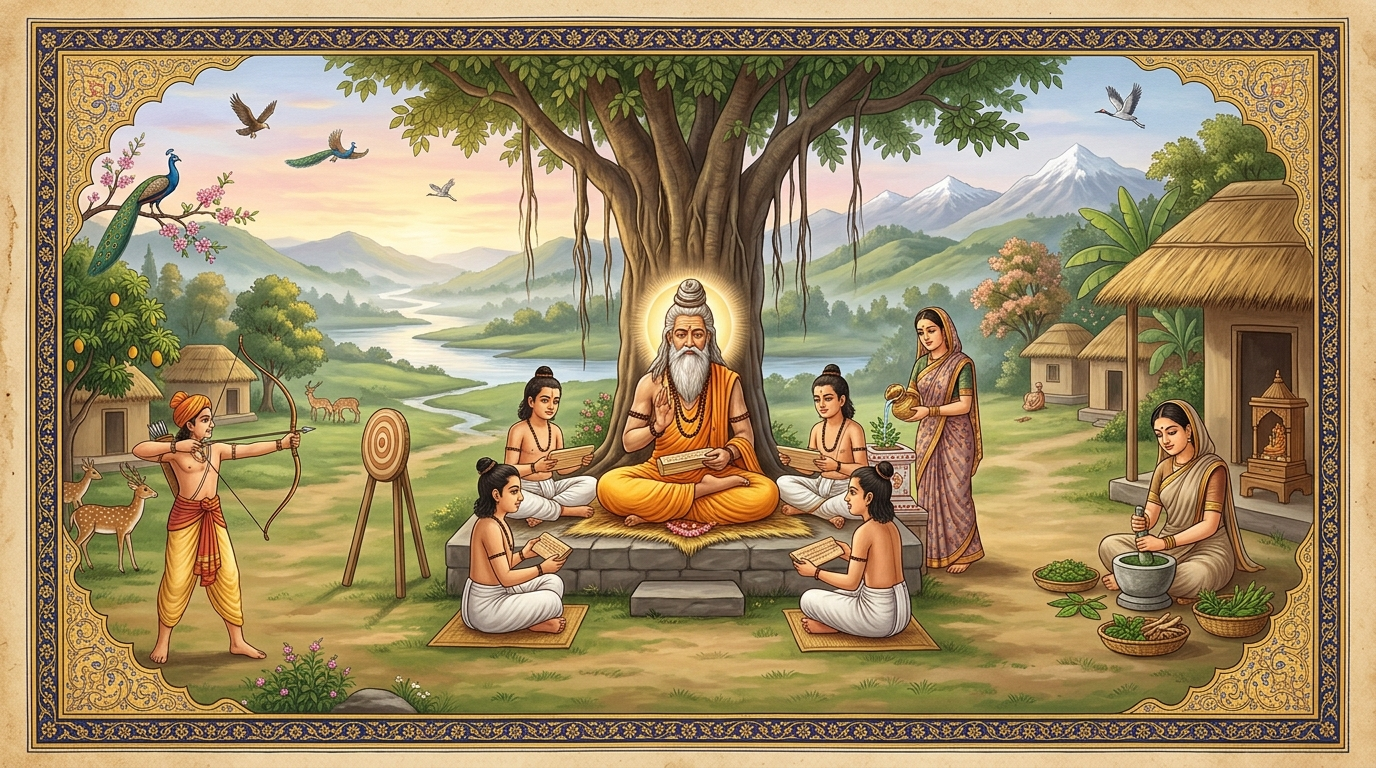
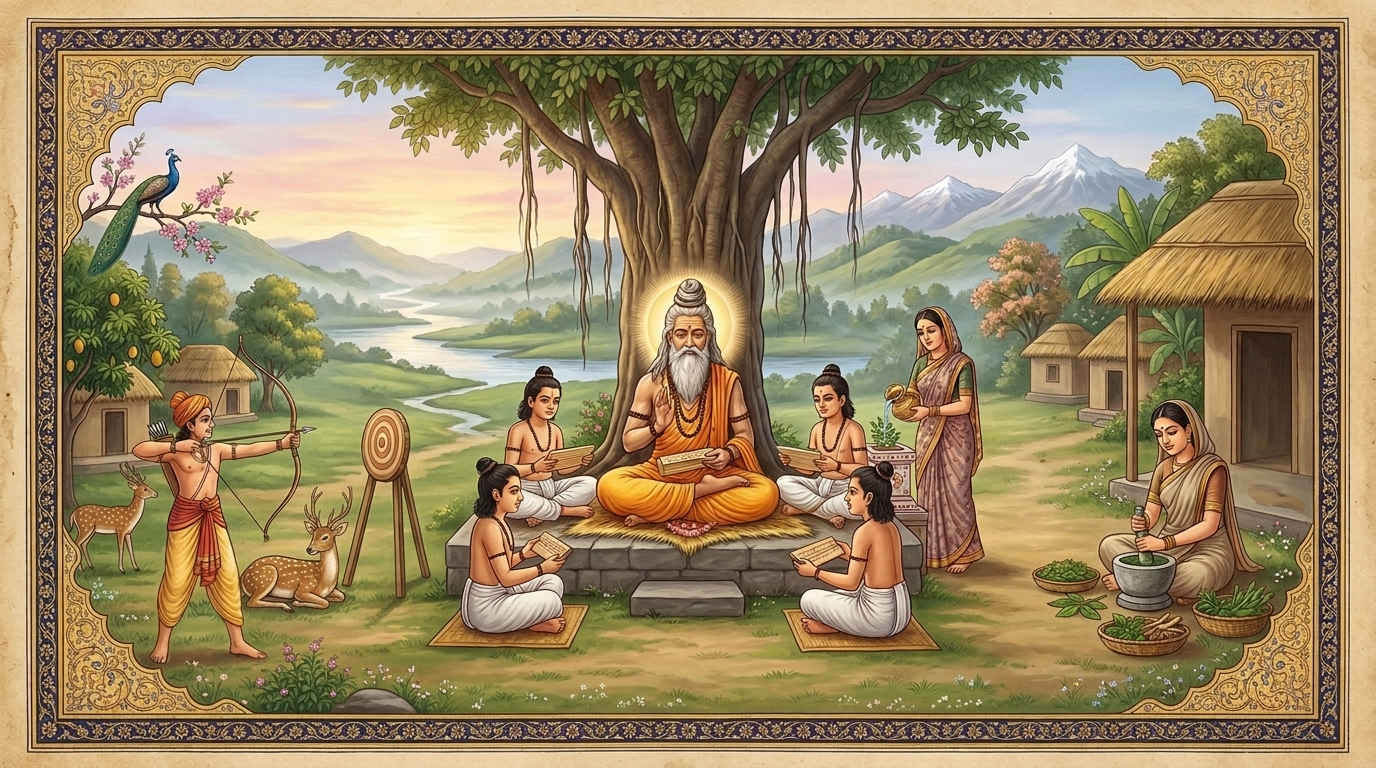
fix(science-lab & gurukul): eliminate duplicate level chips in science lab hero and enable on-demand replay and zen view for refined Gurukul dawn animation

diff --git a/src/components/GurukulEntranceIntro.tsx b/src/components/GurukulEntranceIntro.tsx
@@ -21,6 +21,7 @@ export const GurukulEntranceIntro: React.FC<GurukulEntranceIntroProps> = ({
   const [isSuspended, setIsSuspended] = useState(false);
   const [hasInteracted, setHasInteracted] = useState(false);
   const [secondsLeft, setSecondsLeft] = useState(() => Math.ceil(autoAdvanceMs / 1000));
+  const [isHideOverlay, setIsHideOverlay] = useState(false);
 
   const logoRef = useRef<HTMLImageElement | null>(null);
   const timerRef = useRef<number | null>(null);
@@ -129,7 +130,29 @@ export const GurukulEntranceIntro: React.FC<GurukulEntranceIntroProps> = ({
     setHasInteracted(true);
   };
 
+  const toggleHideOverlay = (e: React.MouseEvent) => {
+    e.stopPropagation();
+    setIsHideOverlay((prev) => {
+      const next = !prev;
+      if (next) {
+        if (timerRef.current) {
+          clearTimeout(timerRef.current);
+          timerRef.current = null;
+        }
+        if (countdownIntervalRef.current) {
+          clearInterval(countdownIntervalRef.current);
+          countdownIntervalRef.current = null;
+        }
+      }
+      return next;
+    });
+  };
+
   const handleContainerClick = () => {
+    if (isHideOverlay) {
+      setIsHideOverlay(false);
+      return;
+    }
     if (!hasInteracted) {
       setHasInteracted(true);
     }
@@ -192,7 +215,7 @@ export const GurukulEntranceIntro: React.FC<GurukulEntranceIntroProps> = ({
       </div>
 
       {/* Main Centerpiece Content */}
-      <div className="gurukul-intro-content" onClick={(e) => e.stopPropagation()}>
+      <div className={`gurukul-intro-content ${isHideOverlay ? 'is-overlay-hidden' : ''}`} onClick={(e) => e.stopPropagation()}>
         {/* Sacred Brand Crest with Mandala Aura */}
         <div className="gurukul-intro-crest-wrap">
           <div className="gurukul-intro-mandala" aria-hidden="true" />
@@ -265,6 +288,16 @@ export const GurukulEntranceIntro: React.FC<GurukulEntranceIntroProps> = ({
 
           <button
             type="button"
+            className="gurukul-intro-view-btn"
+            onClick={toggleHideOverlay}
+            title="View full painting without text overlay"
+          >
+            <span>🎨</span>
+            <span>Admire Painting</span>
+          </button>
+
+          <button
+            type="button"
             className="gurukul-intro-mute-btn"
             onClick={toggleSound}
             aria-label={isMuted ? 'Unmute sounds' : 'Mute sounds'}
@@ -290,6 +323,20 @@ export const GurukulEntranceIntro: React.FC<GurukulEntranceIntroProps> = ({
           </div>
         </div>
       </div>
+
+      {/* Full Painting Zen Mode Floating Hint */}
+      {isHideOverlay && (
+        <div
+          className="gurukul-intro-zen-hint"
+          onClick={(e) => {
+            e.stopPropagation();
+            setIsHideOverlay(false);
+          }}
+          title="Click to restore entrance controls"
+        >
+          <span>🖼 Full Gurukul Dawn Painting View · Tap anywhere to restore entrance controls</span>
+        </div>
+      )}
     </div>
   );
 };

diff --git a/src/styles/gurukul-intro.css b/src/styles/gurukul-intro.css
@@ -210,6 +210,13 @@
   scrollbar-width: none;
   box-sizing: border-box;
   animation: gurukulContentFadeIn 1s cubic-bezier(0.16, 1, 0.3, 1) forwards;
+  transition: opacity 0.4s cubic-bezier(0.16, 1, 0.3, 1), transform 0.4s cubic-bezier(0.16, 1, 0.3, 1);
+}
+
+.gurukul-intro-content.is-overlay-hidden {
+  opacity: 0 !important;
+  pointer-events: none !important;
+  transform: translateY(20px) scale(0.96) !important;
 }
 
 .gurukul-intro-content::-webkit-scrollbar {
@@ -432,6 +439,30 @@
   background: linear-gradient(135deg, #c44200 0%, #a33400 100%);
 }
 
+.gurukul-intro-view-btn {
+  background: rgba(254, 243, 199, 0.22);
+  border: 1.5px solid rgba(251, 191, 36, 0.6);
+  color: #fef3c7;
+  border-radius: 999px;
+  padding: 0.7rem 1.25rem;
+  font-size: 0.9rem;
+  font-weight: 700;
+  cursor: pointer;
+  backdrop-filter: blur(8px);
+  transition: all 0.2s ease;
+  display: inline-flex;
+  align-items: center;
+  gap: 0.45rem;
+  box-shadow: 0 4px 14px rgba(0, 0, 0, 0.25);
+}
+
+.gurukul-intro-view-btn:hover {
+  background: rgba(254, 243, 199, 0.38);
+  border-color: #f59e0b;
+  transform: translateY(-2px);
+  color: #ffffff;
+}
+
 .gurukul-intro-mute-btn {
   background: rgba(255, 255, 255, 0.15);
   border: 1px solid rgba(255, 255, 255, 0.3);
@@ -451,6 +482,37 @@
 .gurukul-intro-mute-btn:hover {
   background: rgba(255, 255, 255, 0.25);
   transform: translateY(-1px);
+}
+
+.gurukul-intro-zen-hint {
+  position: fixed;
+  bottom: 2.2rem;
+  left: 50%;
+  transform: translateX(-50%);
+  z-index: 10000;
+  background: rgba(15, 23, 42, 0.88);
+  border: 1.5px solid rgba(251, 191, 36, 0.7);
+  color: #fef08a;
+  padding: 0.7rem 1.6rem;
+  border-radius: 999px;
+  font-size: 0.92rem;
+  font-weight: 700;
+  cursor: pointer;
+  box-shadow: 0 10px 25px rgba(0, 0, 0, 0.55);
+  backdrop-filter: blur(8px);
+  animation: zenPulse 2.5s infinite;
+  white-space: nowrap;
+}
+
+@keyframes zenPulse {
+  0%, 100% {
+    transform: translateX(-50%) scale(1);
+    box-shadow: 0 10px 25px rgba(0, 0, 0, 0.55);
+  }
+  50% {
+    transform: translateX(-50%) scale(1.03);
+    box-shadow: 0 12px 32px rgba(245, 158, 11, 0.35);
+  }
 }
 
 /* Lingering Countdown & Progress Bar */

diff --git a/src/components/HomePage.tsx b/src/components/HomePage.tsx
@@ -764,7 +764,7 @@ const HomePage: React.FC<HomePageProps> = ({
   const [showEntranceIntro, setShowEntranceIntro] = useState<boolean>(() => {
     if (typeof window === 'undefined') return false;
     try {
-      const alreadySeen = sessionStorage.getItem('ednet_gurukul_intro_seen_v2');
+      const alreadySeen = sessionStorage.getItem('ednet_gurukul_intro_seen_v3');
       return !alreadySeen;
     } catch {
       return false;
@@ -778,7 +778,7 @@ const HomePage: React.FC<HomePageProps> = ({
       setIsLogoArrived(false);
     }, 1200);
     try {
-      sessionStorage.setItem('ednet_gurukul_intro_seen_v2', 'true');
+      sessionStorage.setItem('ednet_gurukul_intro_seen_v3', 'true');
     } catch {}
   }, []);
 
@@ -989,9 +989,19 @@ const HomePage: React.FC<HomePageProps> = ({
               width={76}
               height={76}
               onClick={() => setShowEntranceIntro(true)}
-              title="EdNet Gurukul · संस्कृत-पाठशाला"
+              title="EdNet Gurukul · संस्कृत-पाठशाला · Click to experience Gurukul dawn animation"
               style={{ cursor: 'pointer' }}
             />
+            <button
+              type="button"
+              className="home-hero-replay-intro-btn"
+              onClick={() => setShowEntranceIntro(true)}
+              title="Experience or replay the Vedic Tapovana Gurukul Dawn entrance animation and morning soundscape"
+            >
+              <span className="hhri-icon" aria-hidden="true">🌅</span>
+              <span>गुरुकुल-दर्शनम् · Play Gurukul Dawn Animation</span>
+              <span className="hhri-badge">Sound &amp; Art</span>
+            </button>
           </div>
 
           {/* 1. Main Headline & Direct Level Selection */}

diff --git a/src/styles/home-page.css b/src/styles/home-page.css
@@ -106,6 +106,51 @@ tr th {
   transition: transform 0.25s ease, box-shadow 0.25s ease;
 }
 
+.home-hero-replay-intro-btn {
+  display: inline-flex;
+  align-items: center;
+  gap: 0.55rem;
+  background: linear-gradient(135deg, rgba(255, 251, 235, 0.95), rgba(254, 243, 199, 0.92));
+  border: 1.5px solid rgba(217, 119, 6, 0.38);
+  color: #78350f;
+  font-size: 0.86rem;
+  font-weight: 700;
+  padding: 0.45rem 1.15rem;
+  border-radius: 999px;
+  cursor: pointer;
+  box-shadow: 0 3px 10px rgba(217, 119, 6, 0.12);
+  transition: all 0.2s cubic-bezier(0.16, 1, 0.3, 1);
+  margin-top: 0.35rem;
+}
+
+.home-hero-replay-intro-btn:hover {
+  transform: translateY(-2px);
+  background: linear-gradient(135deg, #fef3c7, #fde68a);
+  border-color: #d97706;
+  box-shadow: 0 6px 18px rgba(217, 119, 6, 0.22);
+  color: #92400e;
+}
+
+.home-hero-replay-intro-btn:active {
+  transform: translateY(0);
+}
+
+.home-hero-replay-intro-btn .hhri-icon {
+  font-size: 1.15rem;
+  line-height: 1;
+}
+
+.home-hero-replay-intro-btn .hhri-badge {
+  font-size: 0.68rem;
+  text-transform: uppercase;
+  letter-spacing: 0.06em;
+  background: rgba(180, 83, 9, 0.14);
+  color: #92400e;
+  padding: 0.18rem 0.55rem;
+  border-radius: 999px;
+  font-weight: 800;
+}
+
 /* --------------------------------------------------------------------------
    Interactive Level Selection Chips (Linked to 6-Step Pathway)
    -------------------------------------------------------------------------- */

diff --git a/src/components/scienceLab/ScienceLab.tsx b/src/components/scienceLab/ScienceLab.tsx
@@ -748,13 +748,6 @@ const ScienceLab: React.FC<ScienceLabProps> = ({ initialSegment, onGoHome, onOpe
               <p className="vl-lead">
                 Boot up the ultimate reality &amp; science play lab. Explore ancient atomic physics, orbital planetary gravity, cymatic sand harmonics, and aerospace metallurgy through 16 interactive sandboxes from preschool wonder to scholar research. Decode Sanskrit sūtras and conquer each scientific challenge.
               </p>
-              <div className="vl-hud-telemetry">
-                <span className="vl-hud-pill"><span>🧸</span> PRESCHOOL (3–7)</span>
-                <span className="vl-hud-pill"><span>🎒</span> PRIMARY (8–12)</span>
-                <span className="vl-hud-pill"><span>🔬</span> MIDDLE (11–15)</span>
-                <span className="vl-hud-pill"><span>🚀</span> HIGH &amp; ADVANCED</span>
-                <span className="vl-hud-pill"><span>🧠</span> BODHI AI GUIDE</span>
-              </div>
               <div className="vl-btn-row">
                 <button
                   type="button"

diff --git a/dist/404.html b/dist/404.html
@@ -120,11 +120,11 @@
   }
 ]
 </script>
-    <script type="module" crossorigin src="/assets/index-CHeygdVb.js"></script>
+    <script type="module" crossorigin src="/assets/index-Bs_-n03M.js"></script>
     <link rel="modulepreload" crossorigin href="/assets/rolldown-runtime-hePW80VL.js">
     <link rel="modulepreload" crossorigin href="/assets/vendor-core-CxKaN3ON.js">
     <link rel="modulepreload" crossorigin href="/assets/authStore-C4OVwZEY.js">
-    <link rel="stylesheet" crossorigin href="/assets/index-CmslGaRf.css">
+    <link rel="stylesheet" crossorigin href="/assets/index-5rRy20Dr.css">
   
     <script type="application/ld+json">
 [

diff --git a/dist/barakhadi.html b/dist/barakhadi.html
@@ -120,11 +120,11 @@
   }
 ]
 </script>
-    <script type="module" crossorigin src="/assets/index-CHeygdVb.js"></script>
+    <script type="module" crossorigin src="/assets/index-Bs_-n03M.js"></script>
     <link rel="modulepreload" crossorigin href="/assets/rolldown-runtime-hePW80VL.js">
     <link rel="modulepreload" crossorigin href="/assets/vendor-core-CxKaN3ON.js">
     <link rel="modulepreload" crossorigin href="/assets/authStore-C4OVwZEY.js">
-    <link rel="stylesheet" crossorigin href="/assets/index-CmslGaRf.css">
+    <link rel="stylesheet" crossorigin href="/assets/index-5rRy20Dr.css">
   
     <script type="application/ld+json">
 [

diff --git a/dist/barakhadi/index.html b/dist/barakhadi/index.html
@@ -120,11 +120,11 @@
   }
 ]
 </script>
-    <script type="module" crossorigin src="/assets/index-CHeygdVb.js"></script>
+    <script type="module" crossorigin src="/assets/index-Bs_-n03M.js"></script>
     <link rel="modulepreload" crossorigin href="/assets/rolldown-runtime-hePW80VL.js">
     <link rel="modulepreload" crossorigin href="/assets/vendor-core-CxKaN3ON.js">
     <link rel="modulepreload" crossorigin href="/assets/authStore-C4OVwZEY.js">
-    <link rel="stylesheet" crossorigin href="/assets/index-CmslGaRf.css">
+    <link rel="stylesheet" crossorigin href="/assets/index-5rRy20Dr.css">
   
     <script type="application/ld+json">
 [

diff --git a/dist/board.html b/dist/board.html
@@ -120,11 +120,11 @@
   }
 ]
 </script>
-    <script type="module" crossorigin src="/assets/index-CHeygdVb.js"></script>
+    <script type="module" crossorigin src="/assets/index-Bs_-n03M.js"></script>
     <link rel="modulepreload" crossorigin href="/assets/rolldown-runtime-hePW80VL.js">
     <link rel="modulepreload" crossorigin href="/assets/vendor-core-CxKaN3ON.js">
     <link rel="modulepreload" crossorigin href="/assets/authStore-C4OVwZEY.js">
-    <link rel="stylesheet" crossorigin href="/assets/index-CmslGaRf.css">
+    <link rel="stylesheet" crossorigin href="/assets/index-5rRy20Dr.css">
   
     <script type="application/ld+json">
 [

diff --git a/dist/board/index.html b/dist/board/index.html
@@ -120,11 +120,11 @@
   }
 ]
 </script>
-    <script type="module" crossorigin src="/assets/index-CHeygdVb.js"></script>
+    <script type="module" crossorigin src="/assets/index-Bs_-n03M.js"></script>
     <link rel="modulepreload" crossorigin href="/assets/rolldown-runtime-hePW80VL.js">
     <link rel="modulepreload" crossorigin href="/assets/vendor-core-CxKaN3ON.js">
     <link rel="modulepreload" crossorigin href="/assets/authStore-C4OVwZEY.js">
-    <link rel="stylesheet" crossorigin href="/assets/index-CmslGaRf.css">
+    <link rel="stylesheet" crossorigin href="/assets/index-5rRy20Dr.css">
   
     <script type="application/ld+json">
 [

diff --git a/dist/cbse-sanskrit-guide.html b/dist/cbse-sanskrit-guide.html
@@ -120,11 +120,11 @@
   }
 ]
 </script>
-    <script type="module" crossorigin src="/assets/index-CHeygdVb.js"></script>
+    <script type="module" crossorigin src="/assets/index-Bs_-n03M.js"></script>
     <link rel="modulepreload" crossorigin href="/assets/rolldown-runtime-hePW80VL.js">
     <link rel="modulepreload" crossorigin href="/assets/vendor-core-CxKaN3ON.js">
     <link rel="modulepreload" crossorigin href="/assets/authStore-C4OVwZEY.js">
-    <link rel="stylesheet" crossorigin href="/assets/index-CmslGaRf.css">
+    <link rel="stylesheet" crossorigin href="/assets/index-5rRy20Dr.css">
   
     <script type="application/ld+json">
 [

diff --git a/dist/cbse-sanskrit-guide/index.html b/dist/cbse-sanskrit-guide/index.html
@@ -120,11 +120,11 @@
   }
 ]
 </script>
-    <script type="module" crossorigin src="/assets/index-CHeygdVb.js"></script>
+    <script type="module" crossorigin src="/assets/index-Bs_-n03M.js"></script>
     <link rel="modulepreload" crossorigin href="/assets/rolldown-runtime-hePW80VL.js">
     <link rel="modulepreload" crossorigin href="/assets/vendor-core-CxKaN3ON.js">
     <link rel="modulepreload" crossorigin href="/assets/authStore-C4OVwZEY.js">
-    <link rel="stylesheet" crossorigin href="/assets/index-CmslGaRf.css">
+    <link rel="stylesheet" crossorigin href="/assets/index-5rRy20Dr.css">
   
     <script type="application/ld+json">
 [
